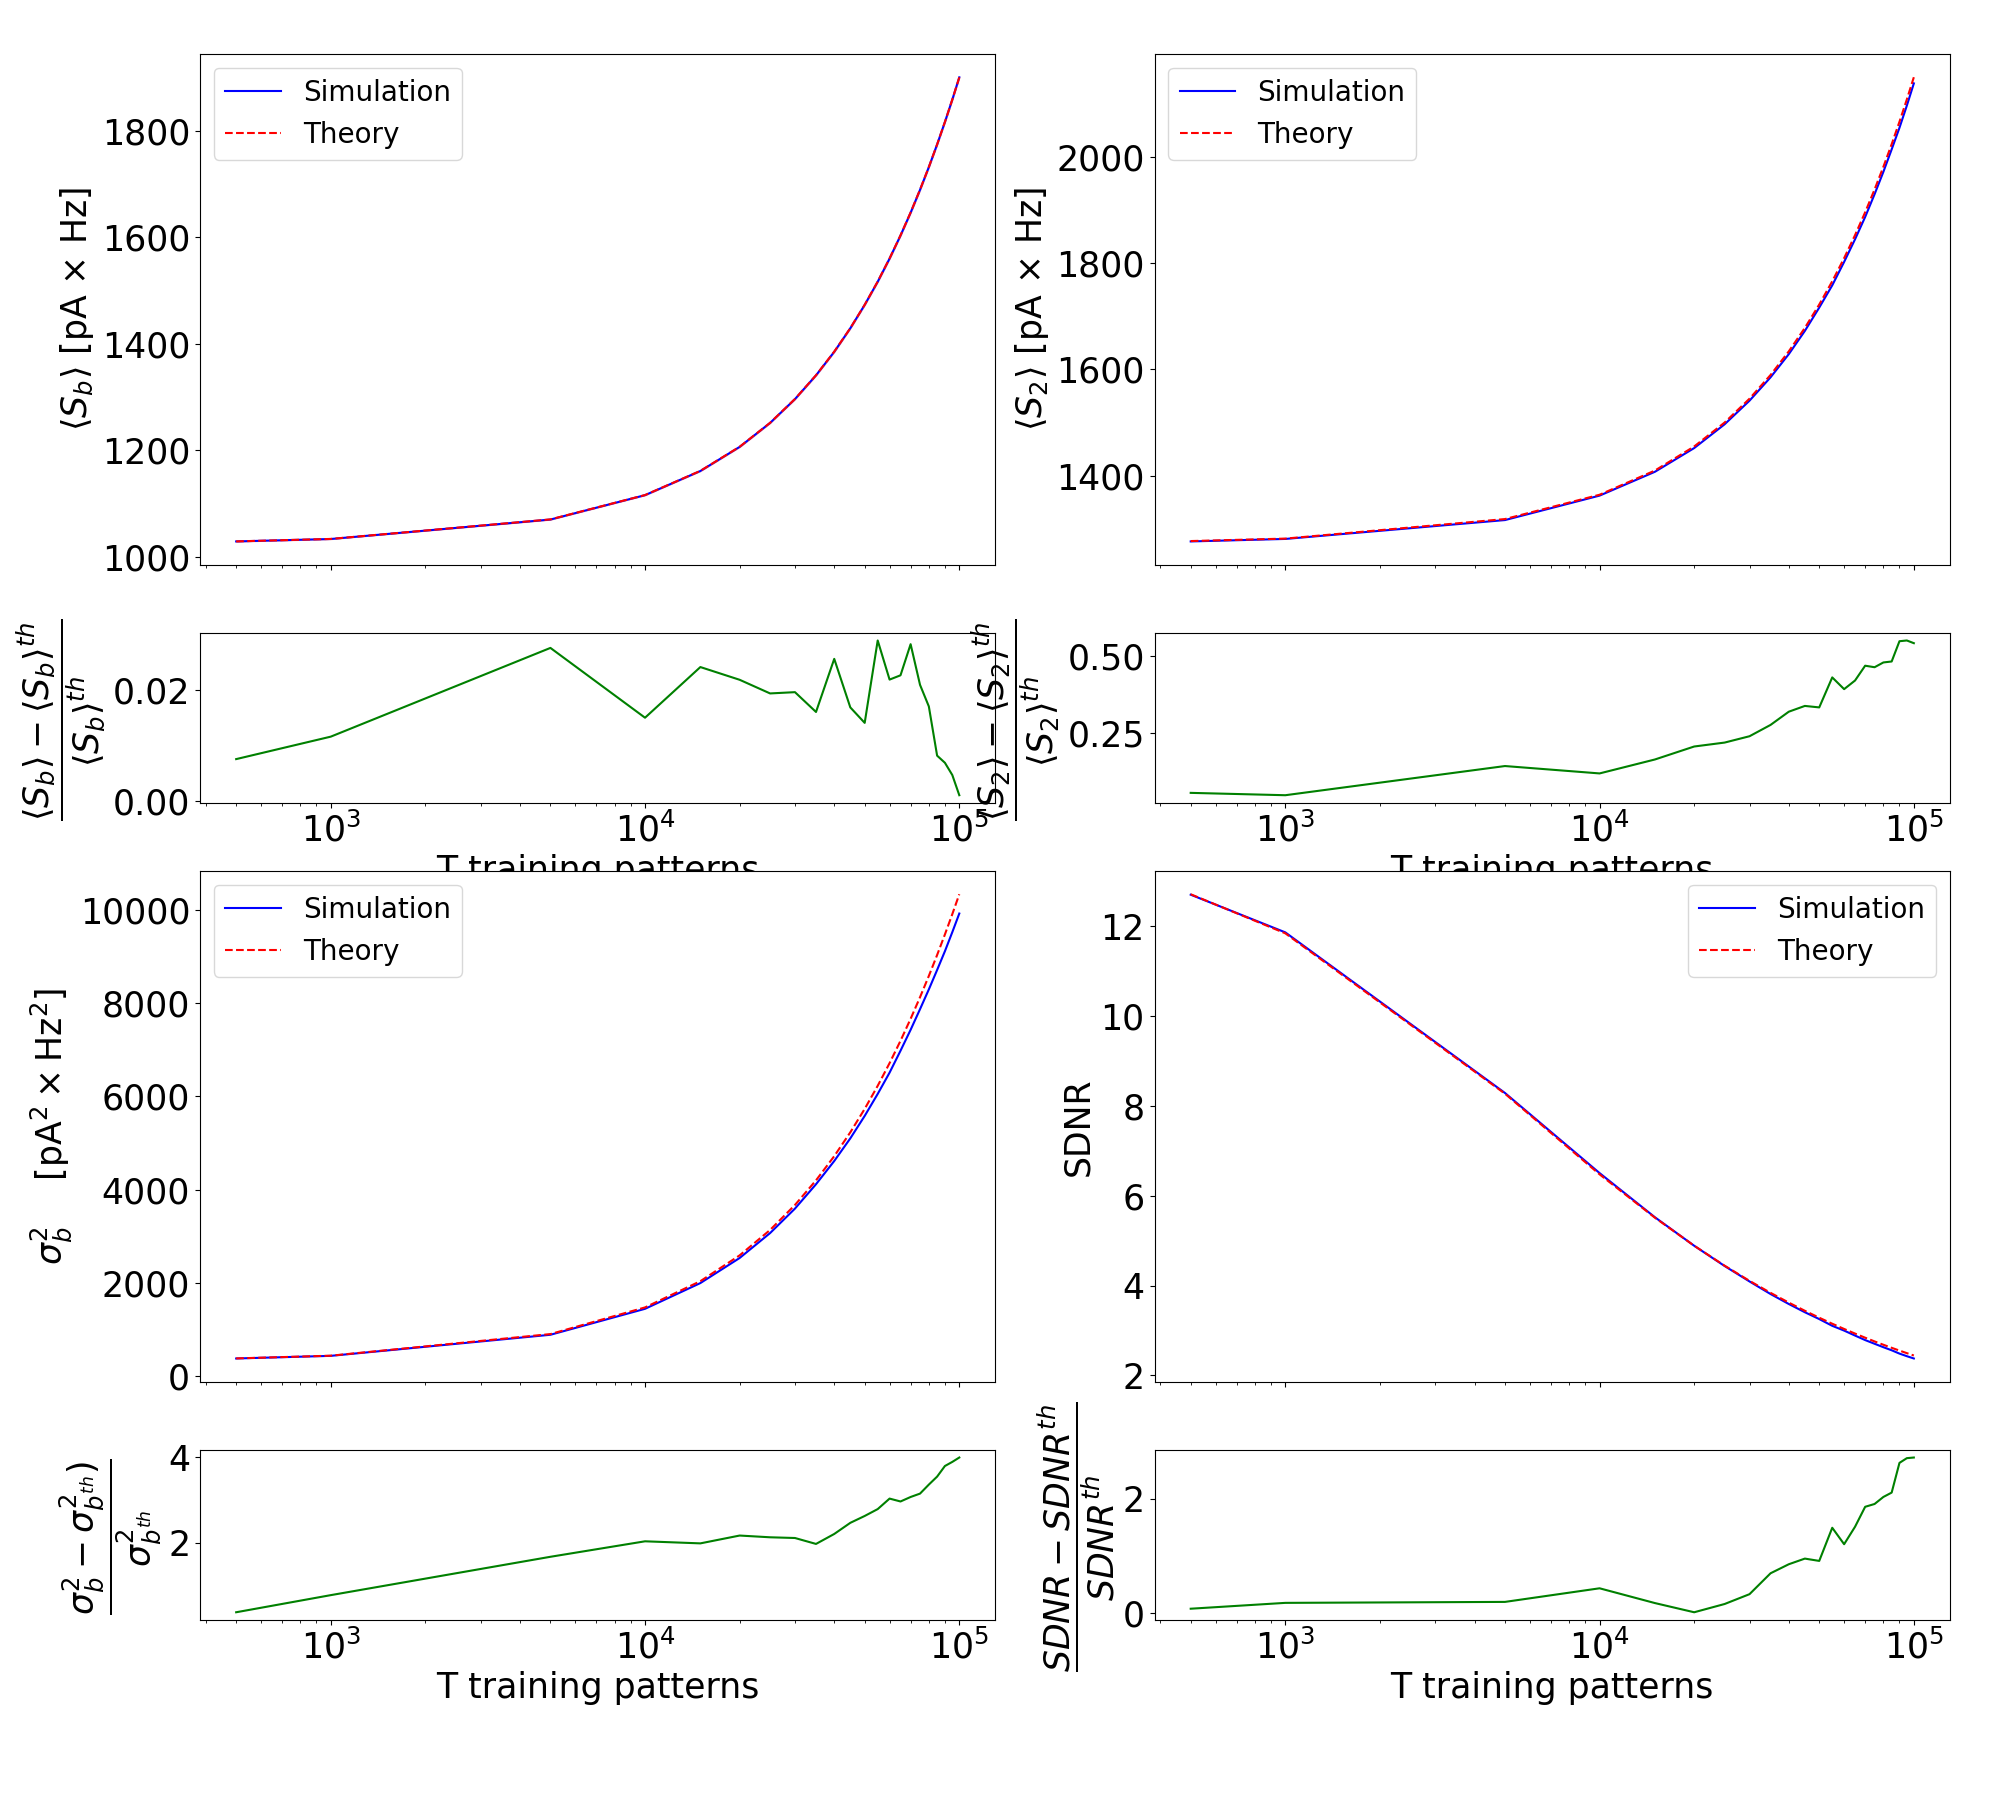
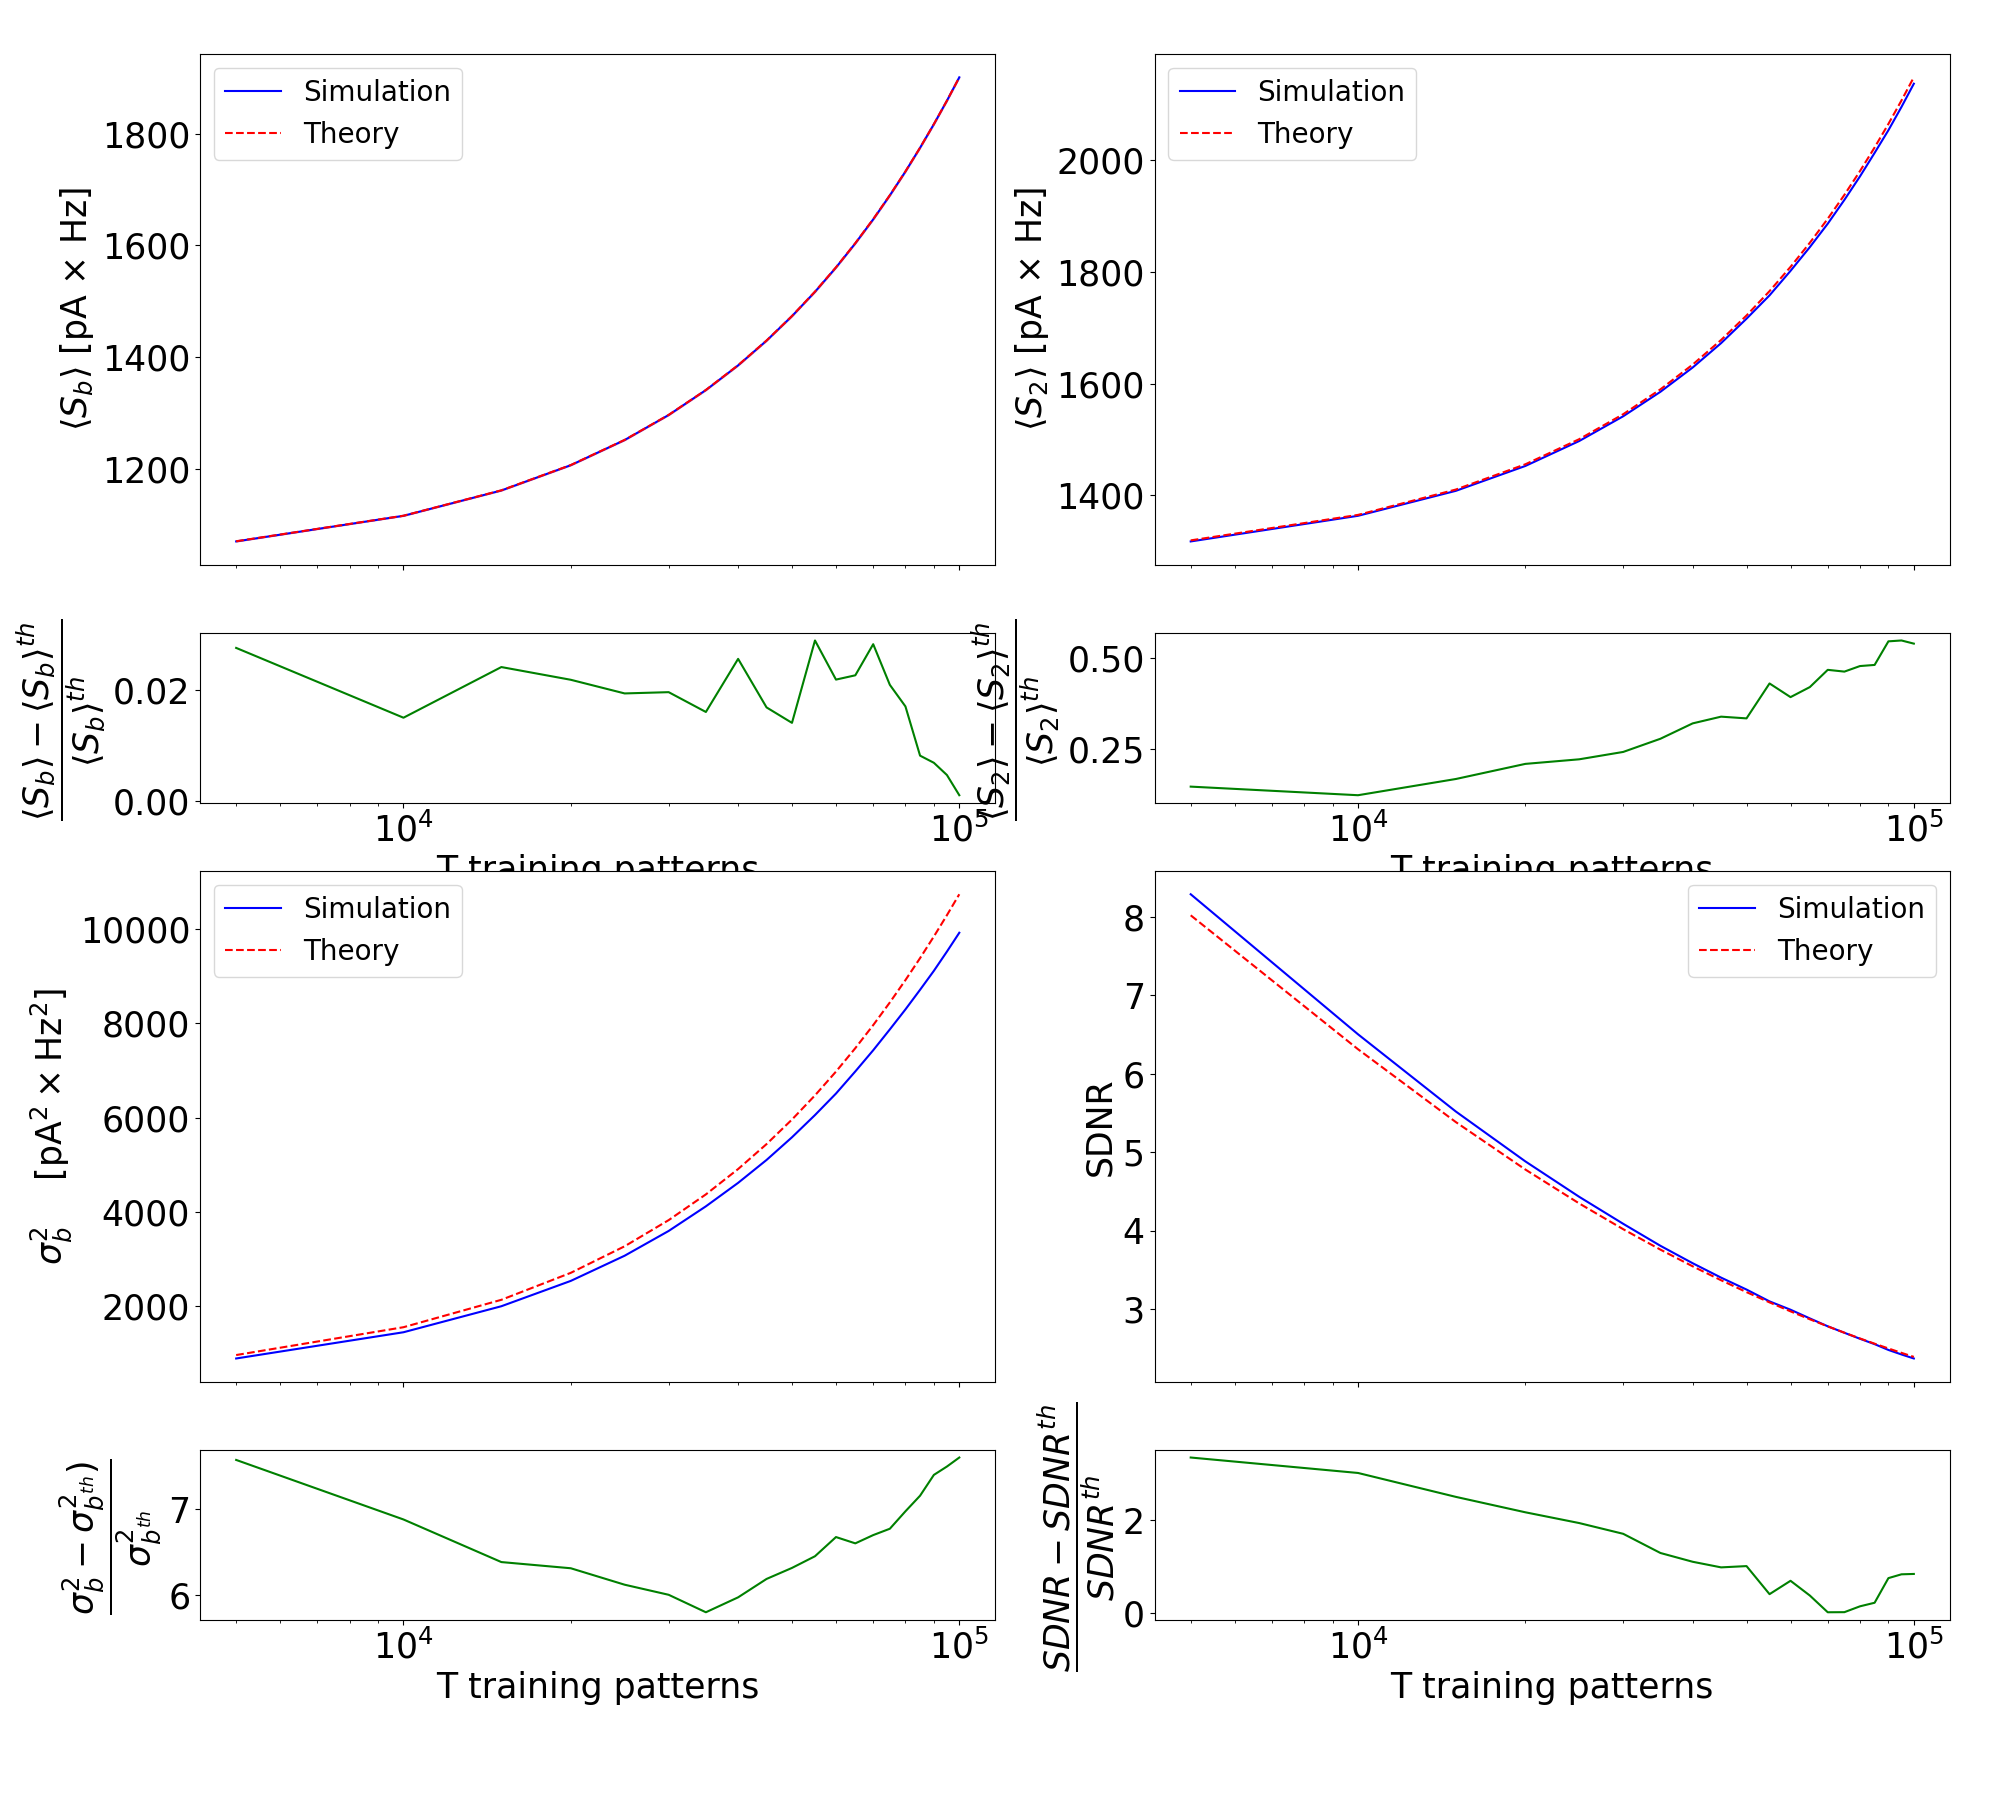
edited plot

diff --git a/plot.py b/plot.py
@@ -282,7 +282,9 @@ def plot_data(discr, th_discr, ln, th_ln, ln_noise, th_ln_noise):
     #ax1.set_xlabel("T training patterns", fontsize=tick_fs)
     ax1.set_ylabel(r"$\langle S_b \rangle$ [pA $\times$ Hz]", fontsize=tick_fs)
     ax1.tick_params(labelsize=tick_fs)
-    ax1.set_xscale('log')
+    #ax1.set_xscale('log')
+    ax1.set_xticks([5000, 25000, 50000, 75000, 100000])
+    ax1.set_xticklabels(["5K", "25K", "50K", "75K", "100K"])
     ax1.grid()
     #ax1.legend(title=r"$\langle S_b \rangle$", fontsize=legend_fs, title_fontsize=legend_fs, framealpha=1.0)
 
@@ -298,7 +300,9 @@ def plot_data(discr, th_discr, ln, th_ln, ln_noise, th_ln_noise):
     #ax2.set_xlabel("T training patterns", fontsize=tick_fs)
     ax2.set_ylabel(r"$\langle S_b \rangle$ [pA $\times$ Hz]", fontsize=tick_fs)
     ax2.tick_params(labelsize=tick_fs)
-    ax2.set_xscale('log')
+    #ax2.set_xscale('log')
+    ax2.set_xticks([5000, 25000, 50000, 75000, 100000])
+    ax2.set_xticklabels(["5K", "25K", "50K", "75K", "100K"])
     ax2.grid()
     #ax2.legend(title=r"$\langle S_b \rangle$", fontsize=legend_fs, title_fontsize=legend_fs, framealpha=1.0)
     ax2.legend(fontsize=legend_fs, framealpha=1.0)
@@ -310,7 +314,9 @@ def plot_data(discr, th_discr, ln, th_ln, ln_noise, th_ln_noise):
     #ax3.set_xlabel("T training patterns", fontsize=tick_fs)
     ax3.set_ylabel(r"$\sigma^2_b$ $\quad [\mathrm{pA}^2 \times \mathrm{Hz}^2]$", fontsize=tick_fs)
     ax3.tick_params(labelsize=tick_fs)
-    ax3.set_xscale('log')
+    #ax3.set_xscale('log')
+    ax3.set_xticks([5000, 25000, 50000, 75000, 100000])
+    ax3.set_xticklabels(["5K", "25K", "50K", "75K", "100K"])
     ax3.grid()
     #ax3.legend(title=r"$\sigma^2_b$", fontsize=legend_fs, title_fontsize=legend_fs, framealpha=1.0)
 
@@ -326,7 +332,9 @@ def plot_data(discr, th_discr, ln, th_ln, ln_noise, th_ln_noise):
     #ax4.set_xlabel("T training patterns", fontsize=tick_fs)
     ax4.set_ylabel(r"$\sigma^2_b$ $\quad [\mathrm{pA}^2 \times \mathrm{Hz}^2]$", fontsize=tick_fs)
     ax4.tick_params(labelsize=tick_fs)
-    ax4.set_xscale('log')
+    #ax4.set_xscale('log')
+    ax4.set_xticks([5000, 25000, 50000, 75000, 100000])
+    ax4.set_xticklabels(["5K", "25K", "50K", "75K", "100K"])
     ax4.grid()
     #ax4.legend(title=r"$\sigma^2_b$", fontsize=legend_fs, title_fontsize=legend_fs, framealpha=1.0)
 
@@ -337,7 +345,9 @@ def plot_data(discr, th_discr, ln, th_ln, ln_noise, th_ln_noise):
     #ax5.set_xlabel("T training patterns", fontsize=tick_fs)
     ax5.set_ylabel(r"$\langle S_2 \rangle$ [pA $\times$ Hz]", fontsize=tick_fs)
     ax5.tick_params(labelsize=tick_fs)
-    ax5.set_xscale('log')
+    #ax5.set_xscale('log')
+    ax5.set_xticks([5000, 25000, 50000, 75000, 100000])
+    ax5.set_xticklabels(["5K", "25K", "50K", "75K", "100K"])
     ax5.grid()
     #ax5.legend(title=r"$\langle S_2 \rangle$", fontsize=legend_fs, title_fontsize=legend_fs, framealpha=1.0)
 
@@ -353,7 +363,9 @@ def plot_data(discr, th_discr, ln, th_ln, ln_noise, th_ln_noise):
     #ax6.set_xlabel("T training patterns", fontsize=tick_fs)
     ax6.set_ylabel(r"$\langle S_2 \rangle$ [pA $\times$ Hz]", fontsize=tick_fs)
     ax6.tick_params(labelsize=tick_fs)
-    ax6.set_xscale('log')
+    #ax6.set_xscale('log')
+    ax6.set_xticks([5000, 25000, 50000, 75000, 100000])
+    ax6.set_xticklabels(["5K", "25K", "50K", "75K", "100K"])
     ax6.grid()
     #ax6.legend(title=r" $\langle S_2 \rangle$", fontsize=legend_fs, title_fontsize=legend_fs, framealpha=1.0)
 
@@ -363,7 +375,9 @@ def plot_data(discr, th_discr, ln, th_ln, ln_noise, th_ln_noise):
     ax7.set_xlabel("T training patterns", fontsize=tick_fs)
     ax7.set_ylabel(r"SDNR", fontsize=tick_fs)
     ax7.tick_params(labelsize=tick_fs)
-    ax7.set_xscale('log')
+    #ax7.set_xscale('log')
+    ax7.set_xticks([5000, 25000, 50000, 75000, 100000])
+    ax7.set_xticklabels(["5K", "25K", "50K", "75K", "100K"])
     ax7.grid()
     #ax5.legend(title=r"SDNR", fontsize=legend_fs, title_fontsize=legend_fs, framealpha=1.0)
 
@@ -377,7 +391,9 @@ def plot_data(discr, th_discr, ln, th_ln, ln_noise, th_ln_noise):
     ax8.set_xlabel("T training patterns", fontsize=tick_fs)
     ax8.set_ylabel(r"SDNR", fontsize=tick_fs)
     ax8.tick_params(labelsize=tick_fs)
-    ax8.set_xscale('log')
+    #ax8.set_xscale('log')
+    ax8.set_xticks([5000, 25000, 50000, 75000, 100000])
+    ax8.set_xticklabels(["5K", "25K", "50K", "75K", "100K"])
     ax8.grid()
     #ax8.legend(title=r"SDNR", fontsize=legend_fs, title_fontsize=legend_fs, framealpha=1.0)
 
